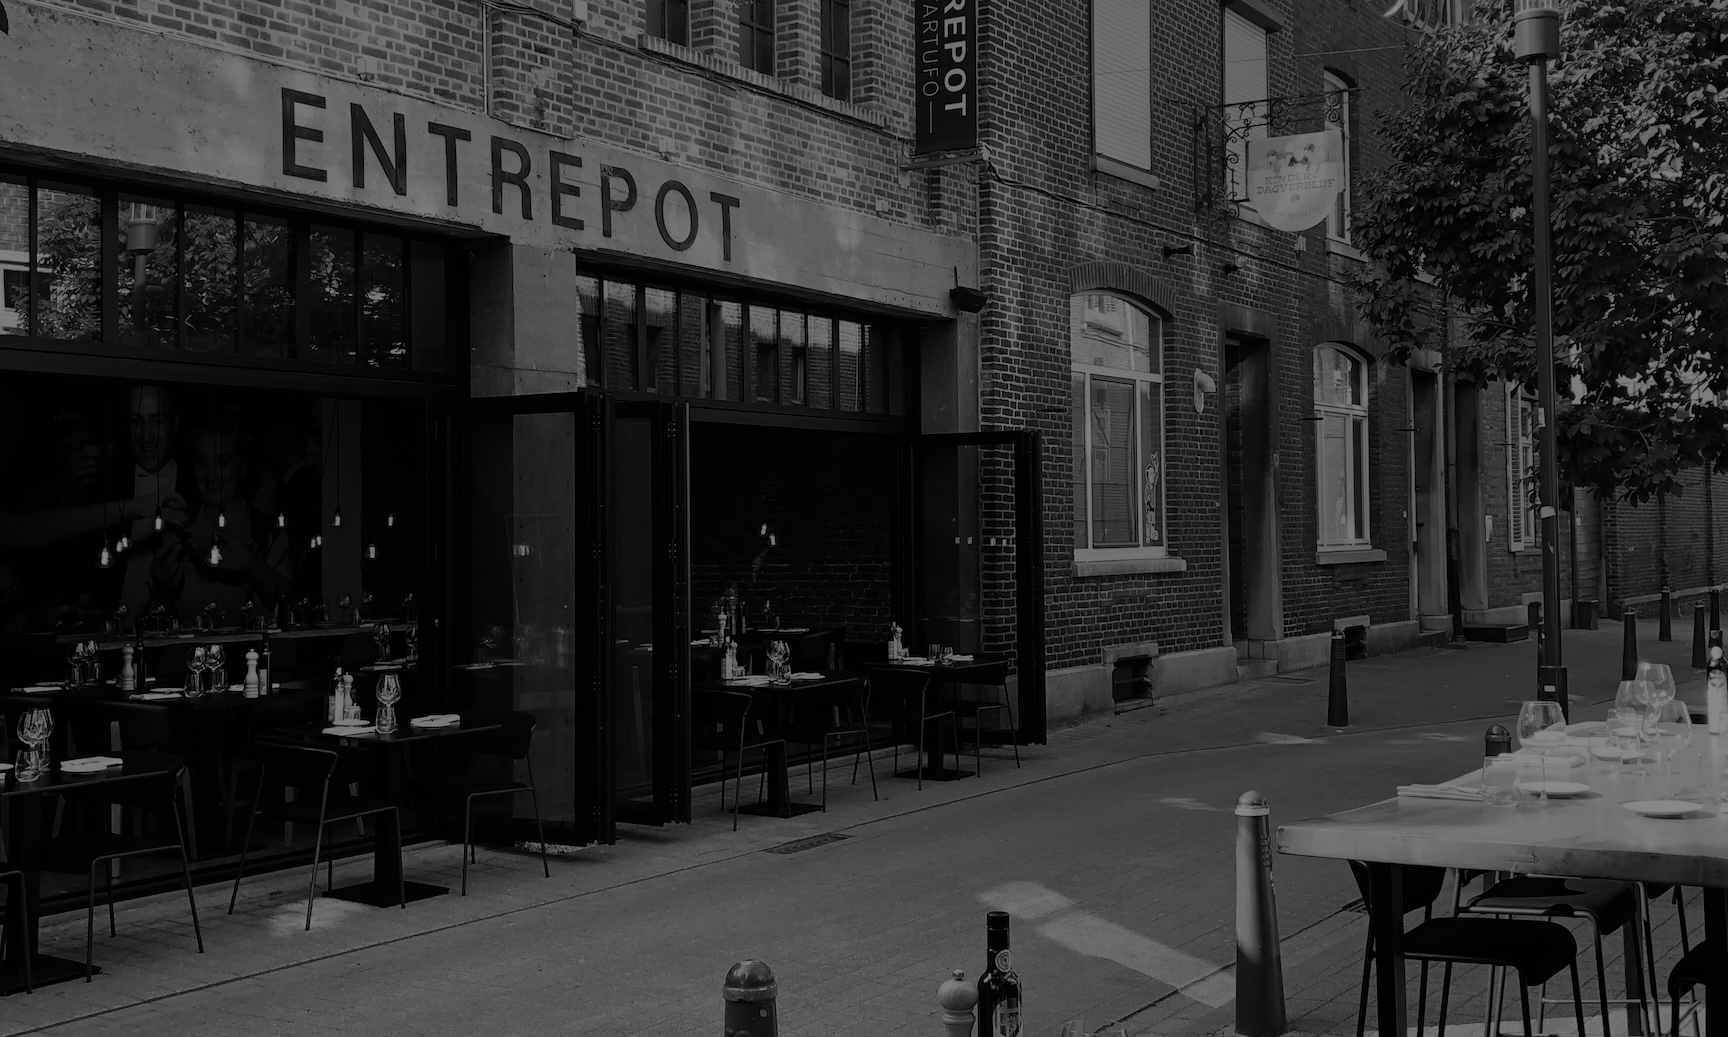
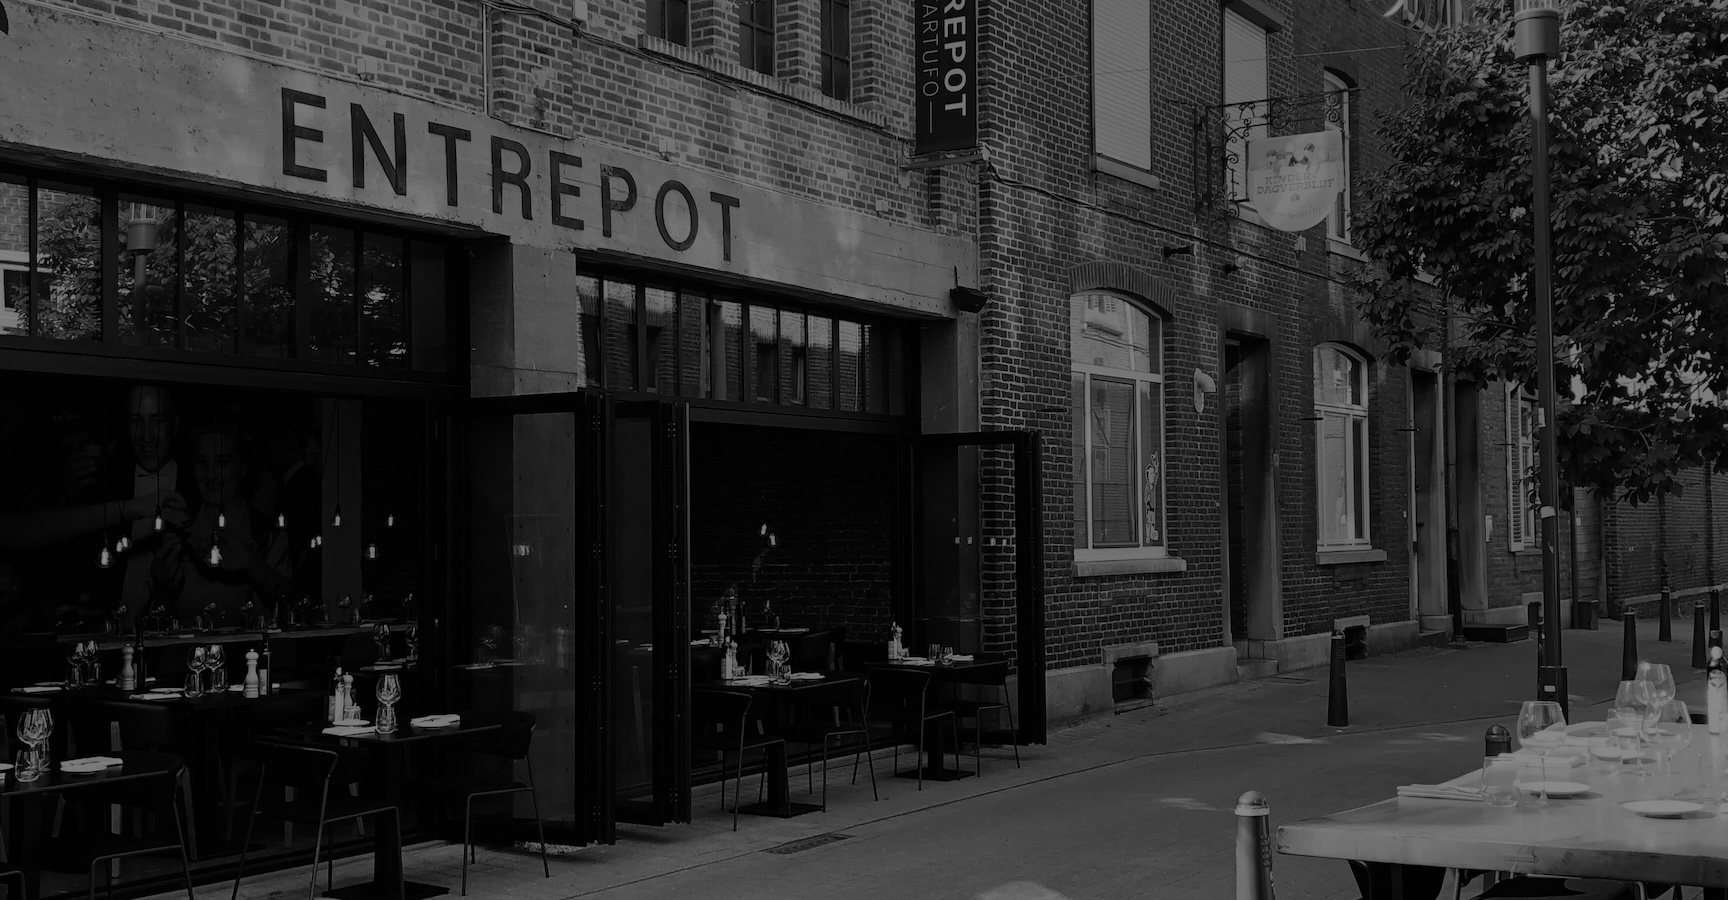
Landing images redesign

diff --git a/components/Home/Lunch.vue b/components/Home/Lunch.vue
@@ -1,9 +1,9 @@
 <template>
   <div>
-    <UContainer class="flex flex-col text-center place-items-center w-full pb-8">
+    <div class="flex flex-col text-center place-items-center w-full pb-8">
       <GeneralLunchDays />
       <GeneralText5XL title="LUNCH @ ENTREPOT" class="pb-8" />
-      <div class="text-xl font-light tracking-wide grid grid-cols-2 gap-x-28">
+      <div class="text-xl font-light tracking-wide grid grid-cols-2 gap-x-10 md:gap-x-28">
         <p class="text-left pb-2">Twee Gangen</p>
         <p class="text-right italic">€30</p>
         <p class="text-left pb-2">Drie Gangen</p>
@@ -17,10 +17,10 @@
           Reserveer Hier
         </UButton>
       </UContainer>
-    </UContainer>
-    <UContainer>
+    </div>
+    <div>
       <MenuLunch class="pb-12" />
       <GeneralTruffleDivider />
-    </UContainer>
+    </div>
   </div>
 </template>

diff --git a/components/Home/Parmezaan.vue b/components/Home/Parmezaan.vue
@@ -1,11 +1,10 @@
 <template>
-  <div>
-    <UContainer class="place-items-center text-center w-full pt-8">
+    <div class="place-items-center text-center w-full pt-8">
       <GeneralOpeningDays />
       <GeneralText5XL title="PARMIGIANO @ CASA" class="pb-8" />
       <UContainer class="flex flex-col text-xl font-light tracking-wide">
         <UContainer>
-          <div class="text-xl font-light tracking-wide grid grid-cols-2 gap-x-20">
+          <div class="text-xl font-light tracking-wide grid grid-cols-2 gap-x-10 md:sgap-x-20">
             <p class="text-left pb-2">Regio Limburg</p>
             <p class="text-right italic">18h00 - 20h00</p>
             <p class="text-left pb-2">6+ Personen</p>
@@ -17,8 +16,5 @@
         Reserveer De Bus
       </UButton>
       <ParmezaanMenu />
-    </UContainer>
-  </div>
+    </div>
 </template>
-
-<style></style>

diff --git a/components/General/LandingImage.vue b/components/General/LandingImage.vue
@@ -1,0 +1,22 @@
+<template>
+  <div class="relative border-b-2">
+    <NuxtImg :src="image" class="w-full" />
+    <div class="absolute inset-0 inset-y-1/3">
+      <UContainer class="flex flex-col place-items-center text-center">
+        <h1 class="text-4xl md:text-5xl lg:text-6xl font-bold tracking-wider">
+          {{ title }}
+        </h1>
+        <NuxtImg src="logo/white.png" class="py-2" sizes="30 md:40 lg:50" />
+        <h2 class="text-lg md:text-xl lg:text-2xl font-light italic">
+          {{ subtitle }}
+        </h2>
+      </UContainer>
+    </div>
+  </div>
+</template>
+
+<script lang="ts">
+export default {
+  props: ["image", "title", "subtitle"]
+}
+</script>

diff --git a/components/Header.vue b/components/Header.vue
@@ -22,7 +22,7 @@
         divide: 'divide-gray-950 dark:divide-gray-50 divide-y ',
       }">
         <template #header>
-          <NuxtImg src="~/assets/logo/white.png" width="30" class="mx-auto" />
+          <NuxtImg src="logo/white.png" width="29" class="mx-auto" />
           <UButton color="white" size="xl" icon="i-heroicons-x-mark-20-solid"
             class="md:hidden absolute end-1 top-2 z-50" square padded @click="isOpen = false" />
         </template>

diff --git a/components/General/LogoAndText.vue b/components/General/LogoAndText.vue
@@ -1,7 +1,7 @@
 <template>
   <div>
     <p class="text-5xl lg:text-6xl font-bold tracking-widest">ENTREPOT</p>
-    <NuxtImg src="white.png" width="50" class="mx-auto my-2" />
+    <NuxtImg src="logo/white.png" width="50" class="mx-auto my-2" />
     <p class="text-4xl lg:text-5xl font-light tracking-widest">DEL TARTUFO</p>
   </div>
 </template>

diff --git a/pages/parmezaan-bus.vue b/pages/parmezaan-bus.vue
@@ -1,6 +1,7 @@
 <template>
   <div>
-    <ParmezaanLandingImage />
+    <GeneralLandingImage image="landing-images/parmezaan.jpg" title="PARMEZAAN BUS"
+      subtitle="Italian food with a touch of truffle" />
     <ParmezaanDiscription />
     <ParmezaanMenu />
     <ParmezaanForm />

diff --git a/components/General/TruffleDivider.vue b/components/General/TruffleDivider.vue
@@ -2,7 +2,7 @@
   <UContainer>
     <UDivider 
       :ui="{ border: { base: 'border-gray-950 dark:border-gray-50 ' } }" >
-      <NuxtImg src="white.png" width="100"/>
+      <NuxtImg src="logo/white.png" width="100"/>
     </UDivider>
   </UContainer>
 </template>

diff --git a/pages/index.vue b/pages/index.vue
@@ -1,6 +1,6 @@
 <template>
   <div>
-    <HomeLandingImage />
+    <GeneralLandingImage image="landing-images/index.jpg" title="ENTREPOT DEL TARTUFO" subtitle="Italian food with a touch of truffle" />
     <HomeWelcome />
     <HomeLunch />
     <HomeParmezaan />

diff --git a/pages/contact.vue b/pages/contact.vue
@@ -1,6 +1,6 @@
 <template>
   <div>
-    <ContactLandingImage />
+    <GeneralLandingImage image="landing-images/contact.jpg" title="CONTACTEER ONS" subtitle="Italian food with a touch of truffle" />
     <ContactDiscription />
     <ContactForm />
   </div>

diff --git a/pages/over.vue b/pages/over.vue
@@ -1,6 +1,6 @@
 <template>
   <div>
-    <OverLandingImage />
+    <GeneralLandingImage image="landing-images/over.jpg" title="OVER ONS" subtitle="Italian food with a touch of truffle" />
     <OverOns />
     <OverDenEntrepot />
   </div>

diff --git a/pages/menu.vue b/pages/menu.vue
@@ -1,6 +1,6 @@
 <template>
   <div>
-    <MenuLandingImage />
+    <GeneralLandingImage image="landing-images/menu.jpg" title="HET MENU" subtitle="Italian food with a touch of truffle" />
     <MenuLunch />
     <MenuDiner />
   </div>
